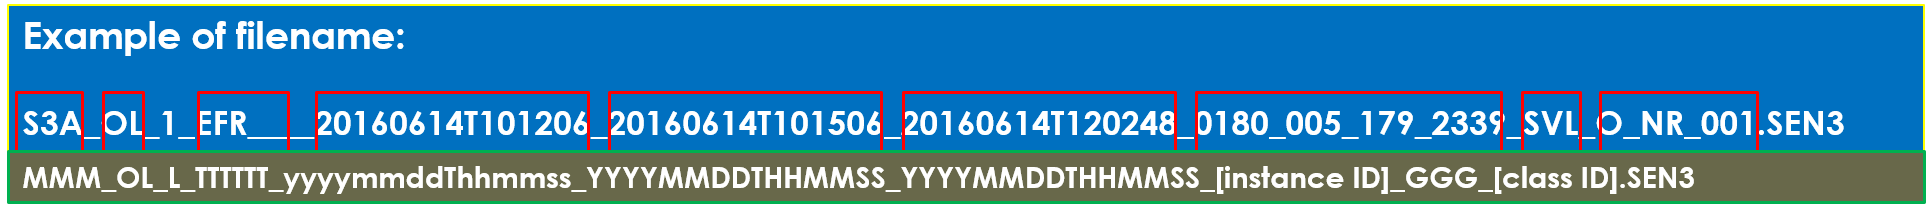
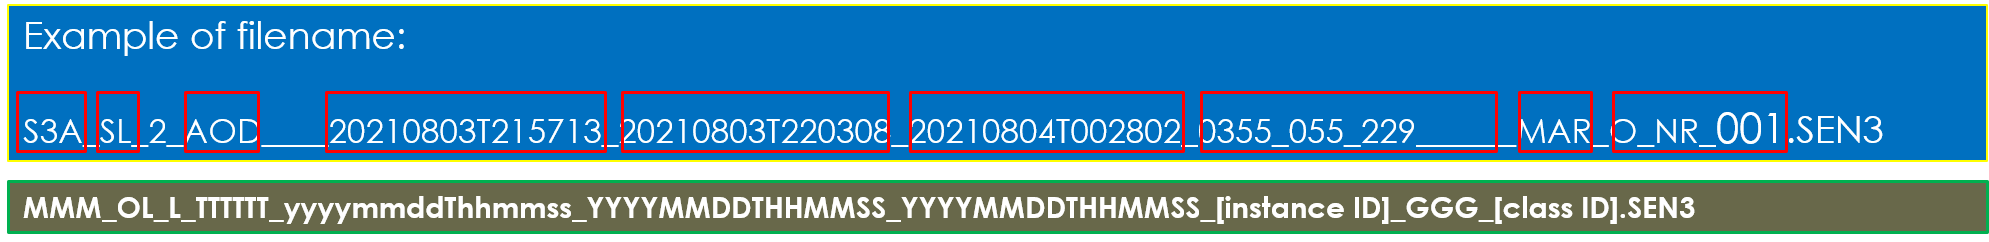
OLCI

diff --git a/OLCI.html b/OLCI.html
@@ -635,17 +635,39 @@ finished.
                     </ul>
 
                     <p>The product package can exist as a directory in a filesystem, zipped folder or tarball. The containing unit has a set file name that describes the product.</p>
-                    <p>The Sentinel-SAFE product package file naming is based on a sequence of fields:</p>
+                    <p>The Sentinel-SAFE product package file naming is based on a sequence of fields (for more details, please check <a href="https://user.eumetsat.int/resources/user-guides/sentinel-safe-format-guide" target="_blank">official documentation</a>):</p>
 
                     <figure>
                         <img src="assets/img/remote-sensing/sentinel-3-naming.png" alt="" style="max-width: 100%; max-height: auto;">
                         <figcaption style="text-align: center;"><b></b> <a href="" target="_blank"></a></figcaption>
                     </figure>
-                    <figure>
-                        <img src="assets/img/remote-sensing/sentinel-filename-structure.png" alt="" style="max-width: 90%; max-height: auto;">
-                        <figcaption style="text-align: center;"><b></b> <a href="" target="_blank"></a></figcaption>
-                    </figure>
-
+                    <div class="grey-box">
+                        <p>For example,  Sentinel-3 near real-time OLCI marine data at Level-2 product file looks like: <code>S3B_SL_2_AOD____20210803T215713_20210803T220308_20210804T002802_0355_055_229______MAR_O_NR_001</code>, where:
+                            <figure>
+                                <img src="assets/img/remote-sensing/sentinel-filename-structure.png" alt="" style="max-width: 90%; max-height: auto;">
+                                <figcaption style="text-align: center;"><b></b> <a href="" target="_blank"></a></figcaption>
+                            </figure>
+                            1 would be:
+                            <ul>
+                                <li>S3B for Sentinel 3B</li>
+                                <li>SL for SLSTR data source</li>
+                                <li>L=2, for level 2 data</li>
+                                <li>20210803T215713: Sensing start at 03 Aug 2021 at 21:37:13 hr. </li>
+                                <li>20210803T220308: Sensing stops at 03 Aug 2021 at 22:03:08 hr. </li>
+                                <li>20210804T002802: Product created at 04 Aug 2021 at 00:28:02 hr.</li>
+                                <li>0355_055_229____ (17 character): 'Duration'_'cycle-number'_'relative orbit number'____</li>
+                                <li>GGG–Product Generating Centre: 
+                                    <ul>
+                                        <li>'MAR' for Marine Processing and Archiving Centre (EUMETSAT).</li>
+                                        <li>'LN3' for Land Surface Topography Mission Processing and Archiving Centre.</li>
+                                        <li>SVL = Svalbard Satellite Core Ground Station.</li>
+                                    </ul>
+                                </li>
+                                <li>O_NR_001 (format 'P_XX_NNN'): Eight characters to indicate the processing system. So here O=operational, NR for near real-time. Three letters/digits ('001') indicating the baseline collection. A significant change typically triggers a reprocessing and a new baseline collection.</li>
+                            </ul>
+                        </p>
+                    </div>
+                    <br>
 
                     <h4 id="OCLI-query">Querying OLCI file structure (Level-1B)</h4>
                     To query the data, we will first need to provide the path to the data. 
